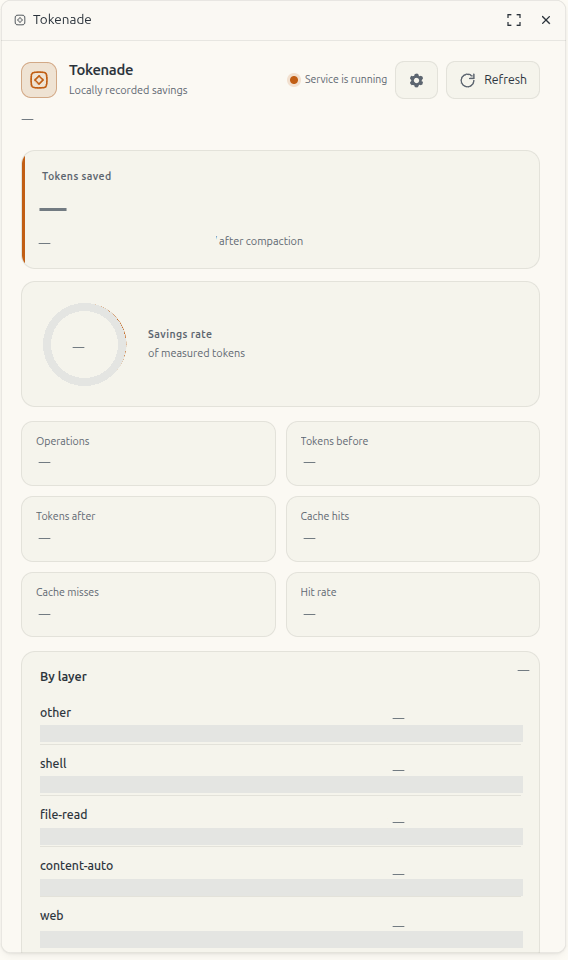
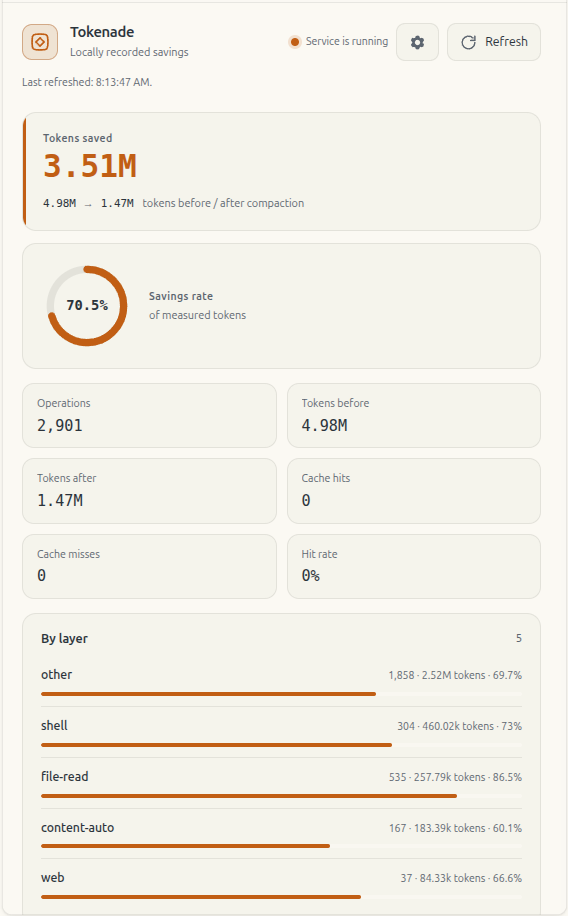
docs(readme): unmask usage figures in screenshots
Replace the privacy-masked dashboard screenshots with captures showing real values and drop the masked-figures disclosure.

diff --git a/README.md b/README.md
@@ -5,11 +5,9 @@ OpenChamber extension for viewing locally recorded Tokenade savings and cache st
 ## Screenshots
 
 <p align="center">
-  <img src="docs/panel.png" alt="Tokenade dashboard in dark theme; usage figures masked" width="48%">
-  <img src="docs/panel-light.png" alt="Tokenade dashboard in light theme; usage figures masked" width="48%">
+  <img src="docs/panel.png" alt="Tokenade dashboard in dark theme" width="48%">
+  <img src="docs/panel-light.png" alt="Tokenade dashboard in light theme" width="48%">
 </p>
-
-Usage figures are masked for privacy.
 
 ## Requirements
 
